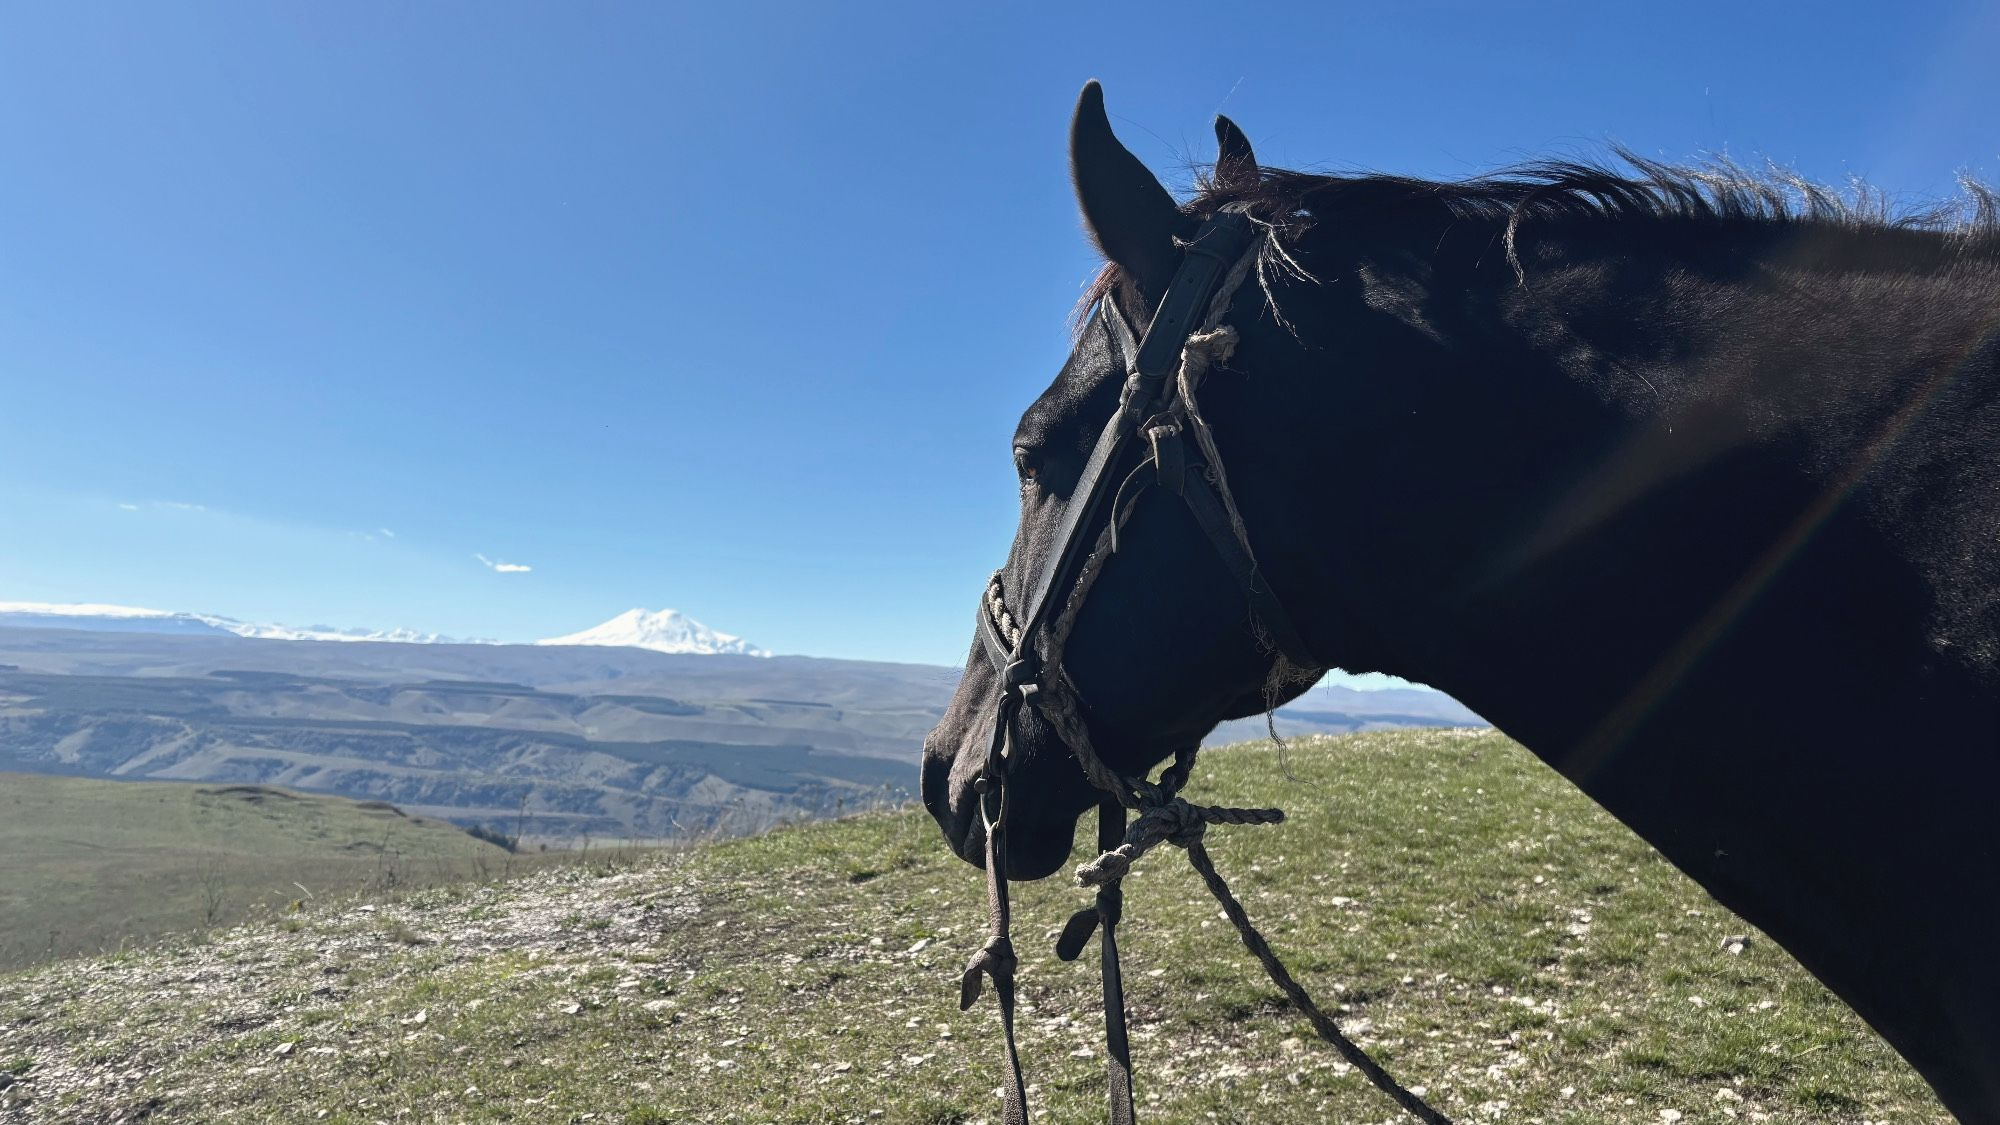
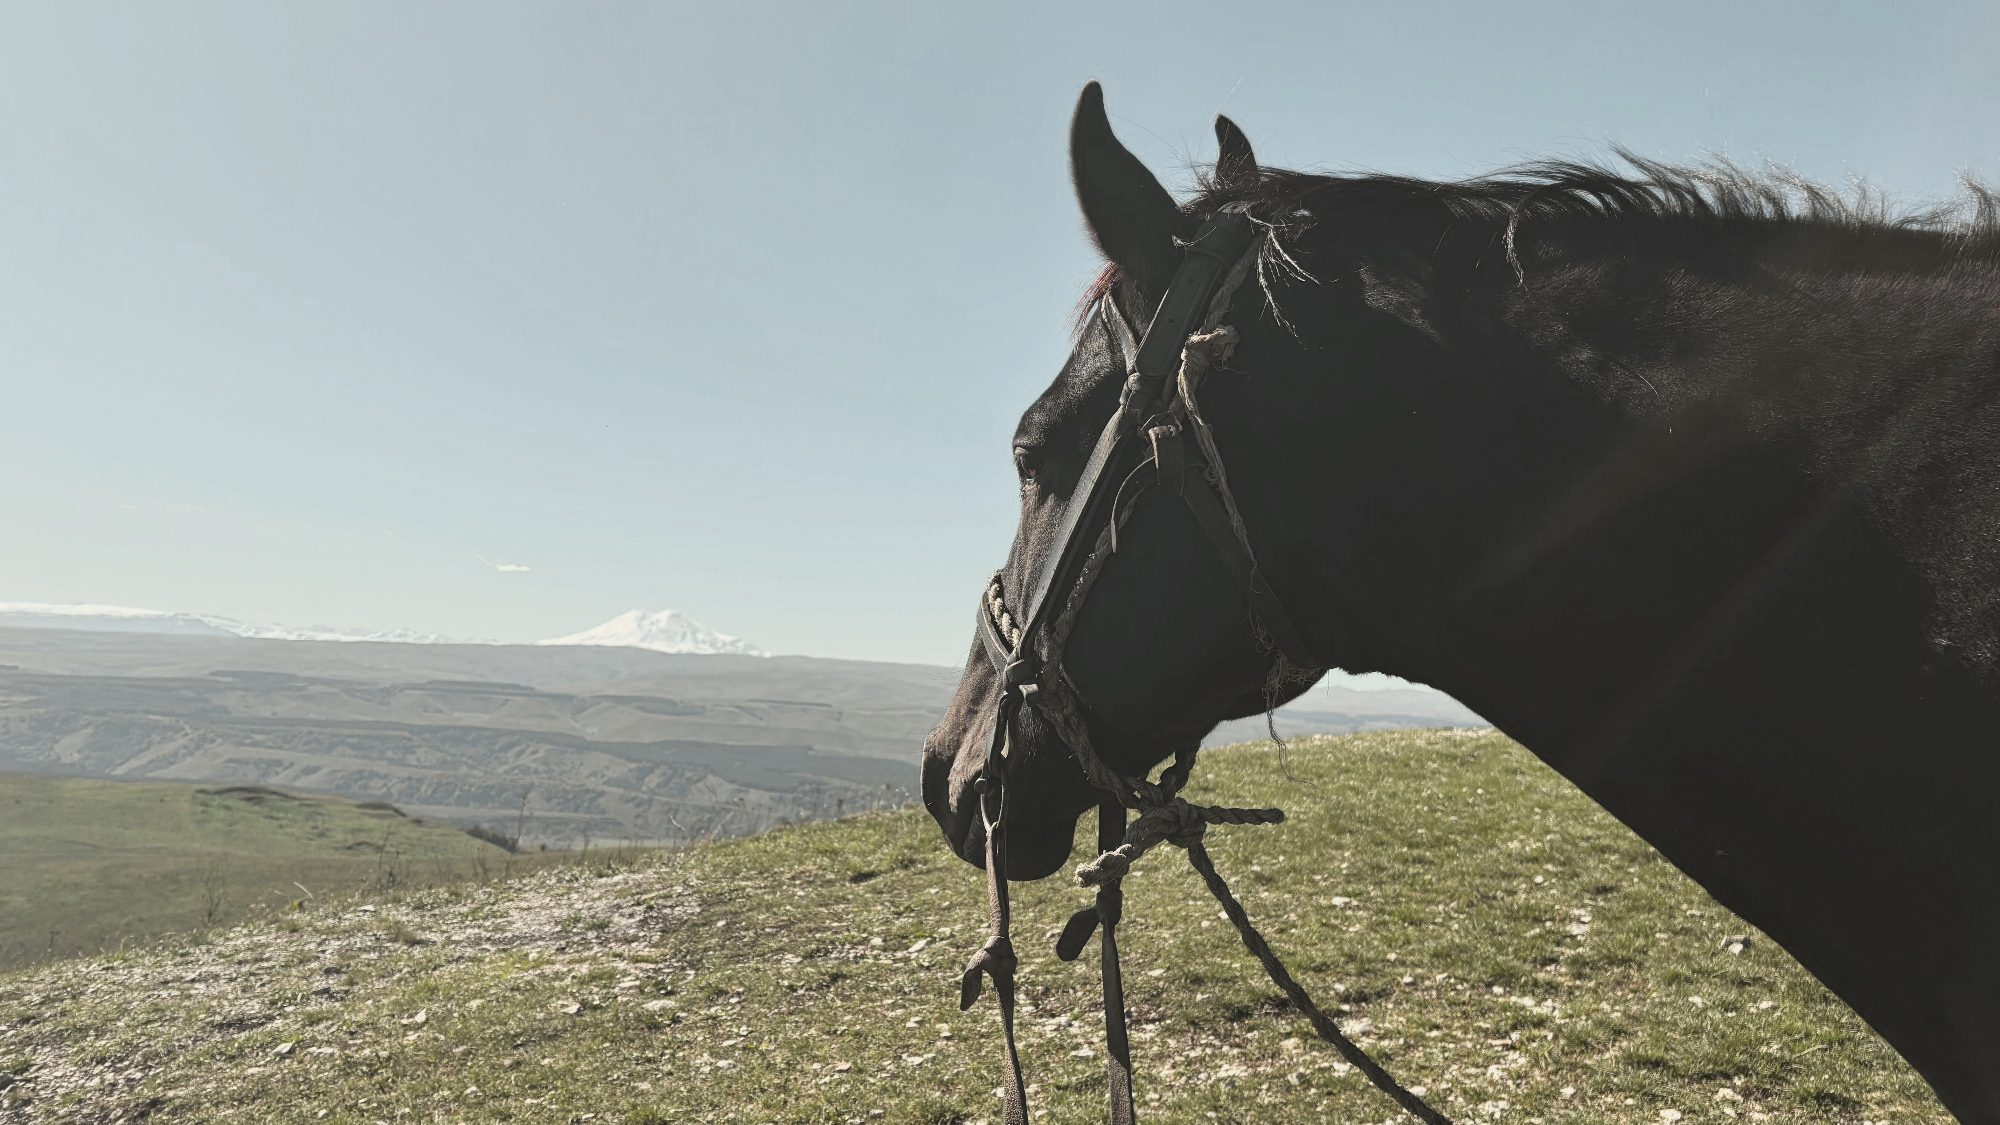
Unify colour: one photo grade matched to the brand palette
- Re-export every photo from the originals through a shared grade:
  skies to muted slate, greens to olive, shadows to warm charcoal,
  highlights to paper; warm midtones and a gentle S-curve
- Warm the cool pink accent into clay so UI pills echo the photos
- Ship the grade as tools/grade.py so future photos match

Claude-Session: https://claude.ai/code/session_01UkYuWCRsuVqYu3sLKU7uMp

diff --git a/index.html b/index.html
@@ -18,14 +18,14 @@
 /* =========================================================
    ЗОВ КАРАЧАЯ — визуальная система v3
    Раскладка: светлые «слайды» со скруглением на угольном фоне
-   Цвета: Уголь · Бумага · Шоколад · Олива · Пудра · Хвоя
+   Цвета: Уголь · Бумага · Шоколад · Олива · Глина · Хвоя
    Шрифт: Inter Tight — плотный гротеск капсом + спокойный текст
    Детали: пилюли-плашки, рукописные петли, подписи в углах
    Движение: expo-out, 0.9–1.4 с, шаг 50 мс, ничего не прыгает
    ========================================================= */
 :root{
   --char:#1c1c1a;--char2:#2a2a27;--paper:#ecebe6;--paper2:#f6f5f1;--ink:#1d1d1b;--mute:#6e6c66;
-  --choco:#5a3a2a;--choco2:#4a2f22;--olive:#a7a23e;--olive2:#8f8b33;--pink:#efb2bd;--forest:#3e4a35;--forest2:#323c2b;
+  --choco:#5a3a2a;--choco2:#4a2f22;--olive:#a7a23e;--olive2:#8f8b33;--pink:#e6b2a2;--forest:#3e4a35;--forest2:#323c2b;
   --cream:#f3efe6;--line:rgba(29,29,27,.14);--lineL:rgba(243,239,230,.2);
   --font:"Inter Tight",system-ui,sans-serif;
   --ease:cubic-bezier(.16,1,.3,1);--ease-io:cubic-bezier(.65,0,.35,1);
@@ -262,7 +262,7 @@ img{display:block;max-width:100%}
 .mc .ans-h .pill{font-size:17px;padding:8px 16px 9px;font-weight:800;text-transform:uppercase;rotate:-4deg}
 .mc .ans p{margin:12px 0 0;font-size:15px;color:var(--mute)}
 .mc .verdict{position:absolute;right:20px;top:20px}
-.mc.ok{background:#e4e5c9}.mc.no{background:#f3dfe2}
+.mc.ok{background:#e3e3c8}.mc.no{background:#f1dfd6}
 .mc.cta{background:var(--olive);justify-content:space-between}
 .mc.cta .q{margin-top:0}
 
@@ -783,7 +783,7 @@ footer{padding:clamp(50px,7vw,90px) calc(var(--pad) + var(--gap)) 28px;color:var
         <path d="M108 62 C126 76 146 104 160 130 C150 112 132 84 116 66Z" fill="#33281f"/>
         <path d="M82 58 C62 70 46 98 41 132 C37 160 38 188 40 210 L22 210 C18 182 22 150 30 124 C26 120 28 112 34 106 C34 98 40 92 44 88 C46 78 56 70 62 66 C66 60 74 56 82 56Z" fill="#0c0908"/>
         <path d="M96 54 C108 62 112 76 106 92 C102 80 96 72 88 66Z" fill="#0c0908"/>
-        <g fill="none" stroke="#efb2bd" stroke-width="3" stroke-linecap="round"><path d="M96 64 C104 68 112 70 120 68"/><path d="M100 66 C106 88 116 108 126 122"/><path d="M126 122 C136 118 146 116 156 114"/><path d="M126 122 C130 132 134 142 138 150"/></g>
+        <g fill="none" stroke="#e6b2a2" stroke-width="3" stroke-linecap="round"><path d="M96 64 C104 68 112 70 120 68"/><path d="M100 66 C106 88 116 108 126 122"/><path d="M126 122 C136 118 146 116 156 114"/><path d="M126 122 C130 132 134 142 138 150"/></g>
         <ellipse cx="111" cy="88" rx="5.5" ry="6.5" fill="#0a0807"/><circle cx="113" cy="85.5" r="1.8" fill="#fff"/>
         <ellipse id="tLid" cx="111" cy="88" rx="6.5" ry="7.5" fill="#1c1613"/>
         <path d="M104 80 C108 77 114 77 118 80" fill="none" stroke="#0c0908" stroke-width="1.6" stroke-linecap="round"/>

diff --git a/tools/grade.py b/tools/grade.py
@@ -1,0 +1,45 @@
+"""Единая цветокоррекция «Зов Карачая»: небо → сланец, зелень → олива,
+тени → тёплый уголь (#1c1c1a), света → бумага (#f3efe6)."""
+import sys, numpy as np
+from PIL import Image, ImageOps
+
+def smooth(x, a, b):  # 0 at a, 1 at b
+    t = np.clip((x - a) / (b - a), 0, 1); return t * t * (3 - 2 * t)
+
+def band(h, lo, hi, soft):  # hue window (degrees) with soft edges
+    return smooth(h, lo - soft, lo) * (1 - smooth(h, hi, hi + soft))
+
+def grade(im):
+    hsv = np.asarray(im.convert('HSV')).astype(np.float32) / 255.0
+    h, s, v = hsv[..., 0] * 360, hsv[..., 1], hsv[..., 2]
+    sat_w = smooth(s, .08, .3)
+    blue = band(h, 175, 250, 25) * sat_w
+    green = band(h, 65, 165, 20) * sat_w
+    # небо: в приглушённый сланцево-голубой, чуть темнее
+    h = h + (205 - h) * .35 * blue
+    s = s * (1 - .62 * blue)
+    v = v * (1 - .06 * blue)
+    # зелень: к оливе
+    h = h + (62 - h) * .4 * green
+    s = s * (1 - .25 * green)
+    s = s * .9
+    hsv2 = np.stack([(h % 360) / 360, np.clip(s, 0, 1), np.clip(v, 0, 1)], -1)
+    rgb = np.asarray(Image.fromarray((hsv2 * 255).astype(np.uint8), 'HSV').convert('RGB')).astype(np.float32) / 255
+    # мягкая S-кривая
+    rgb = rgb + .2 * (rgb - .5) * (1 - np.abs(2 * rgb - 1))
+    # тональный диапазон: уголь → бумага
+    lo = np.array([22, 21, 19]) / 255; hi = np.array([243, 239, 230]) / 255
+    rgb = lo + rgb * (hi - lo)
+    # тёплые полутона
+    l = rgb.mean(-1, keepdims=True); mid = 4 * l * (1 - l)
+    rgb = rgb + mid * np.array([.022, .006, -.022])
+    return Image.fromarray((np.clip(rgb, 0, 1) * 255 + .5).astype(np.uint8))
+
+if __name__ == '__main__':
+    src, dst, w = sys.argv[1], sys.argv[2], int(sys.argv[3])
+    rot = int(sys.argv[4]) if len(sys.argv) > 4 else 0
+    im = ImageOps.exif_transpose(Image.open(src)).convert('RGB')
+    if rot: im = im.rotate(rot, expand=True)
+    if im.width > w: im = im.resize((w, round(im.height * w / im.width)), Image.LANCZOS)
+    grade(im).save(dst, quality=82, optimize=True, progressive=True)
+    print(dst, im.size)

diff --git a/README.md b/README.md
@@ -7,9 +7,9 @@
 Настроение — тишина высоты: ночь, ветер, первый свет над Минги-Тау. Сдержанно, без «этношоу».
 
 ## Визуальная система
-- **Цвет:** Уголь `#1c1c1a`, Бумага `#ecebe6`, Шоколад `#5a3a2a`, Олива `#a7a23e`, Пудра `#efb2bd`, Хвоя `#3e4a35`.
+- **Цвет:** Уголь `#1c1c1a`, Бумага `#ecebe6`, Шоколад `#5a3a2a`, Олива `#a7a23e`, Глина `#e6b2a2`, Хвоя `#3e4a35`.
 - **Шрифт:** Inter Tight — плотный гротеск капсом для заголовков, спокойный текст. Акценты — наклонённые плашки-пилюли, рукописные петли-стрелки, подписи в углах слайдов.
-- **Изображения:** единый тёплый приглушённый грейд, плёночное зерно, крупные детали (грива, верёвочная уздечка, Эльбрус на горизонте).
+- **Изображения:** единая цветокоррекция под палитру — небо уходит в приглушённый сланец, зелень в оливу, тени в тёплый уголь `#1c1c1a`, света в цвет бумаги `#f3efe6`; поверх — плёночное зерно.
 - **Знак:** оливковый круг-солнце с силуэтом горы.
 - **«Правда vs миф»:** игра из шести утверждений о лошадях и прогулках — снимает страхи новичков и ведёт к записи.
 
@@ -41,6 +41,14 @@
 | `story.jpg` | тропа 06 «Свободный темп» |
 | `sunrays.jpg` | «Свет» — фон, проявляется при прокрутке |
 | `dog.jpg` | финальный кадр «Одного раза мало» |
+
+Новые фото прогоняйте через тот же грейд, тогда они лягут в общую гамму:
+
+```
+pip install pillow numpy
+python3 tools/grade.py исходник.jpg img/имя.jpg 1600
+```
+(последнее число — ширина в пикселях; для RAW-снимков с телефона, лежащих «на боку», добавьте `-90`).
 
 Рекомендуемая ширина — 1200–2000 px, JPG. Сильнее всего сайт усилят: рассвет/закат на тропе, группа всадников на хребте, портреты команды.
 
